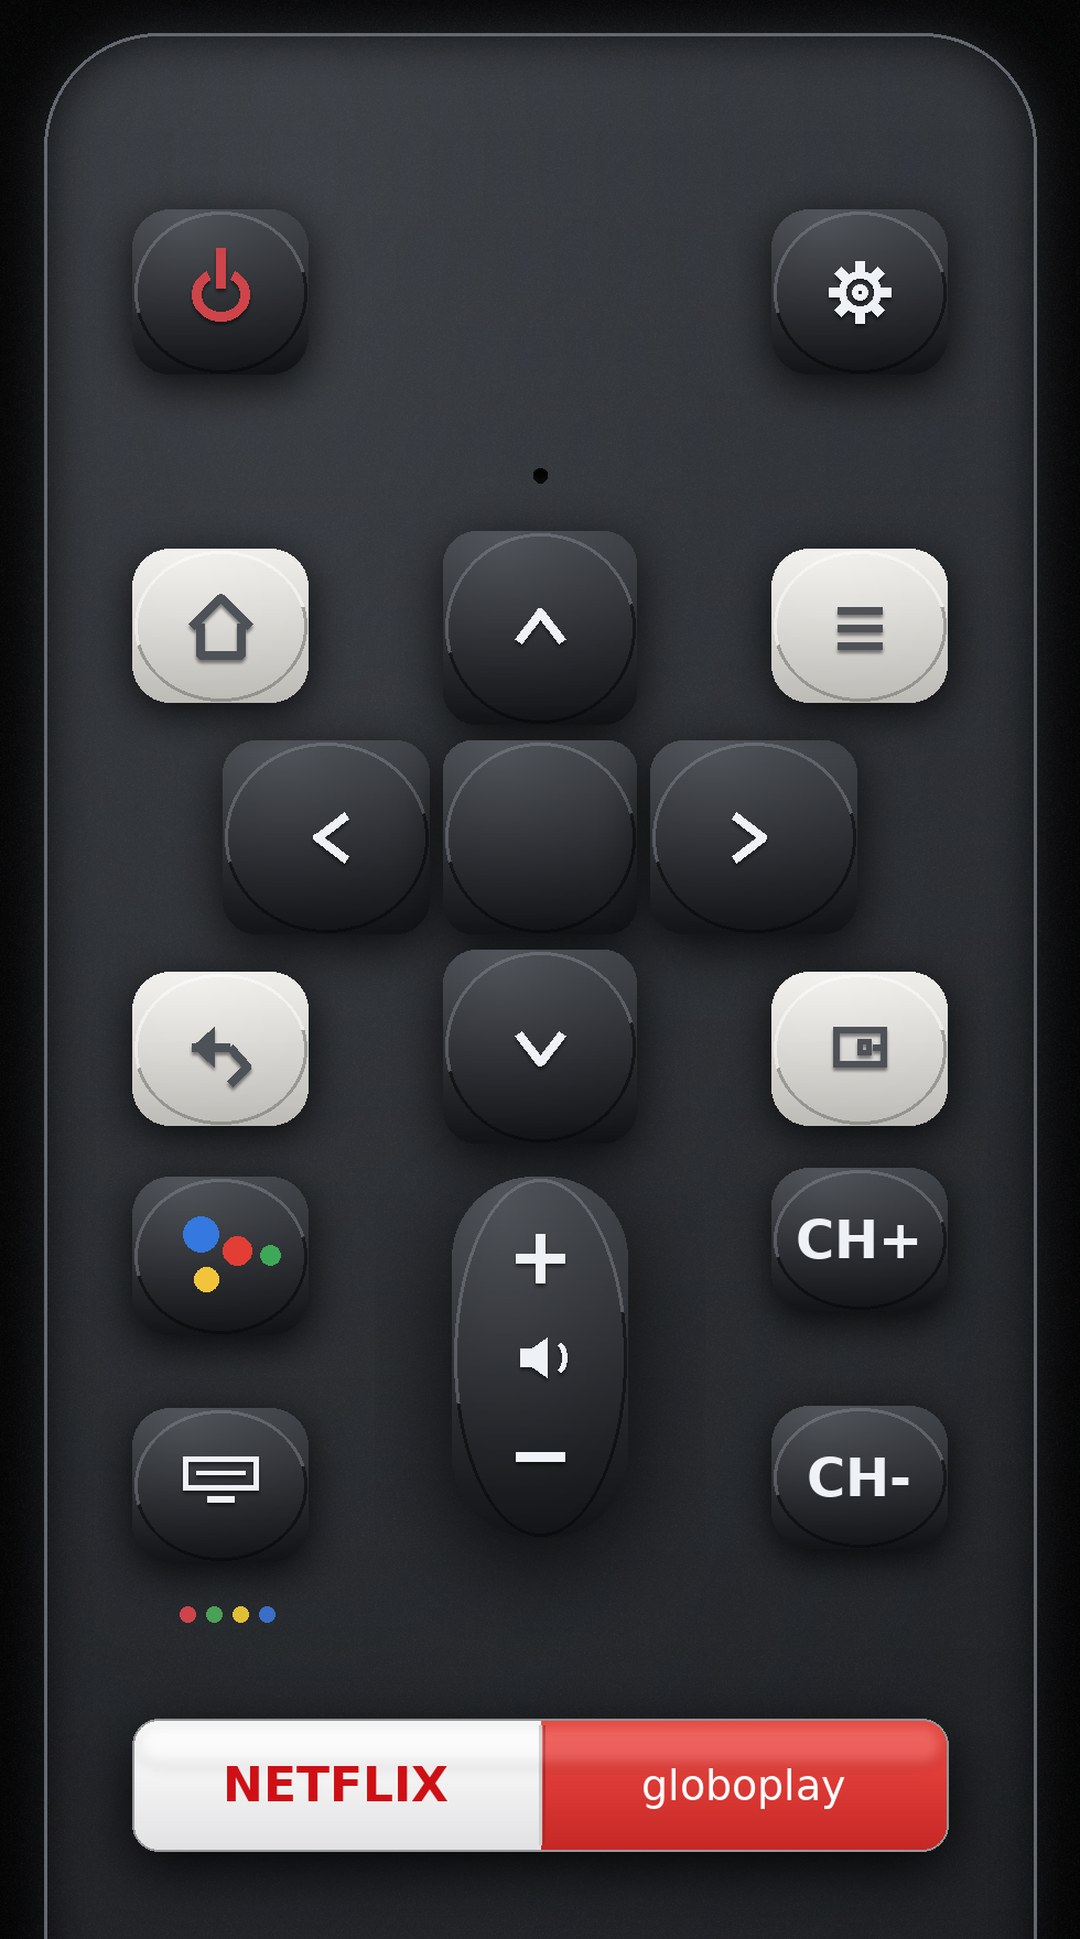
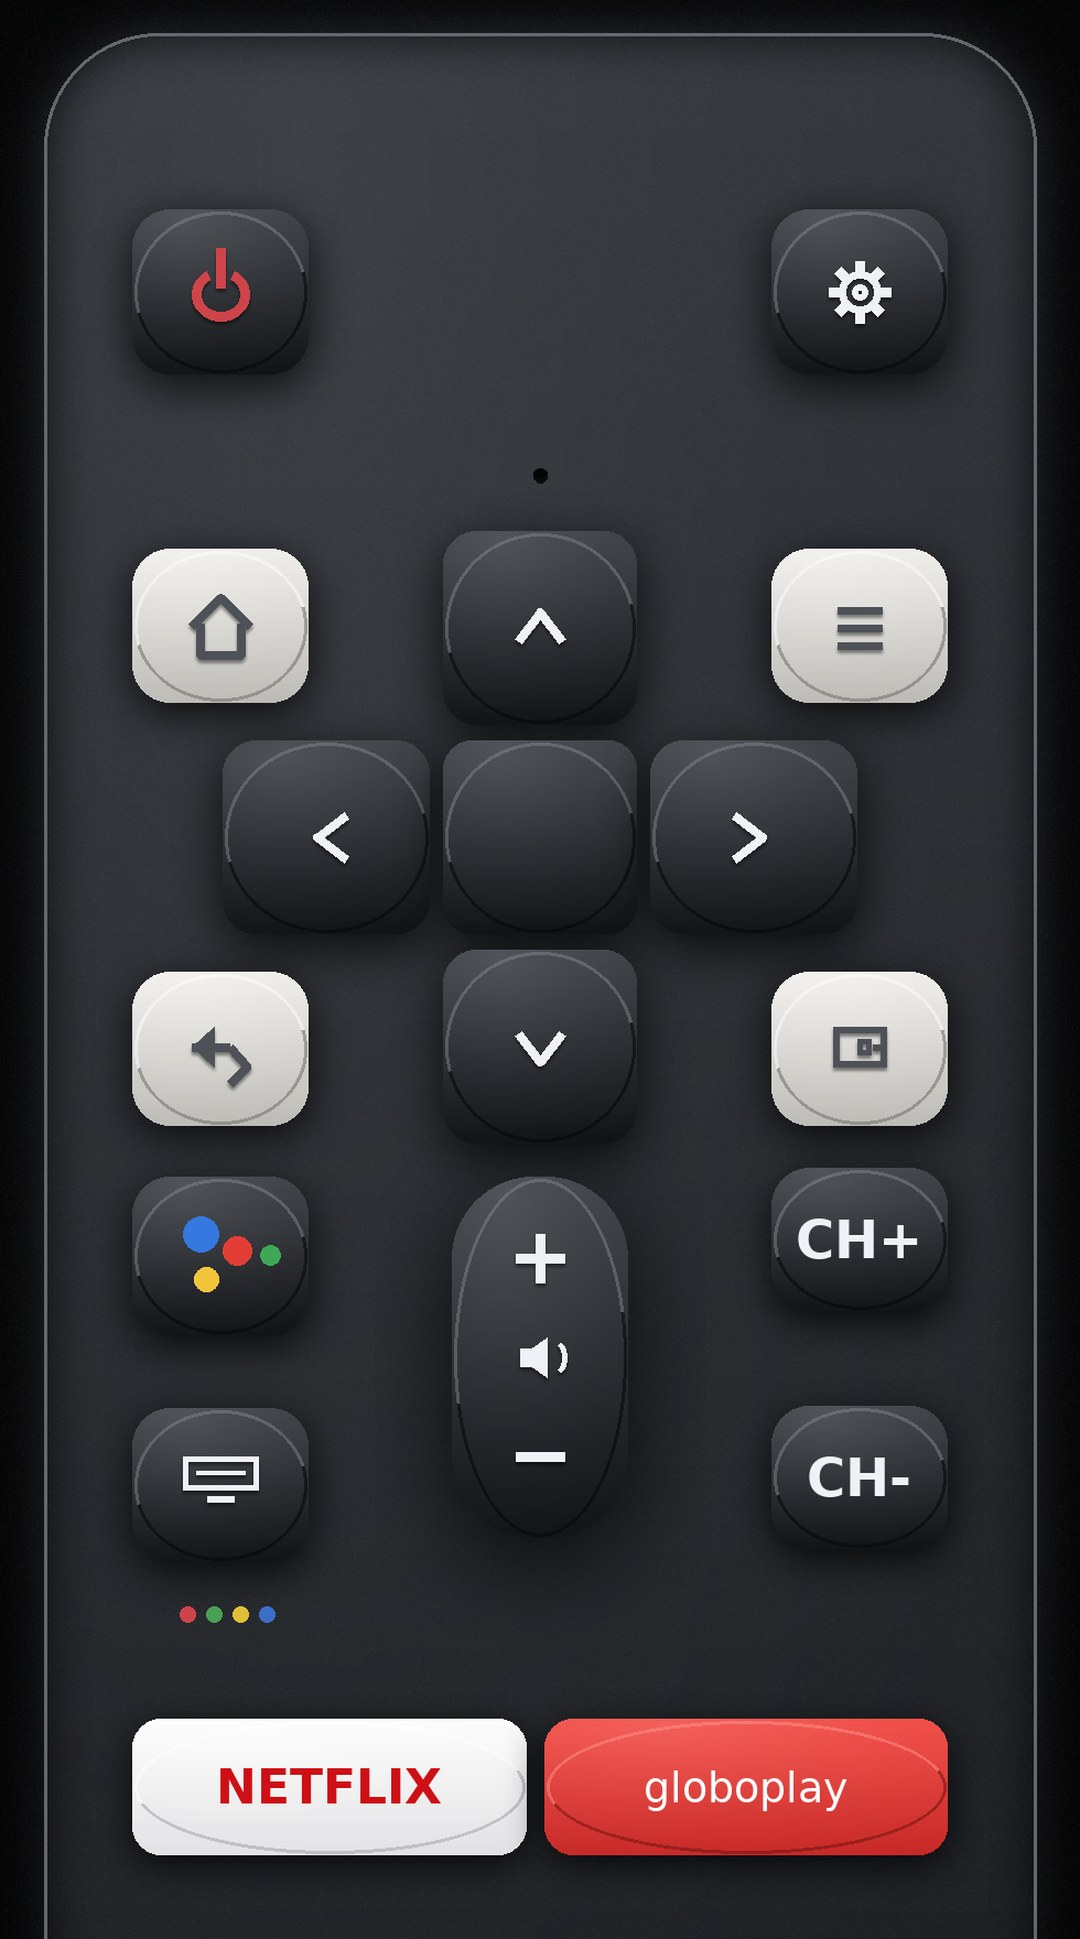
2.0.8: geometria da Samsung corrigida (home fora da roda, 123/EXTRA iguais), marcas do Android em relevo, repeticao agrupada no ADB e aviso de queda na abertura

Changed region(s): [[0.1222, 0.8664, 0.8861, 0.9593]]

diff --git a/ios/Sources/PhotoRemote.swift b/ios/Sources/PhotoRemote.swift
@@ -104,30 +104,30 @@ enum RemoteArt {
             CGRect(x: cx - r, y: cy - r, width: 2 * r, height: 2 * r)
         }
         var keys: [HotKey] = [
-            HotKey(id: "power", box: box(252, 430, 144), cmd: .power),
-            HotKey(id: "123", box: box(252, 856, 144)),
-            HotKey(id: "extra", box: box(1280 - 252, 856, 144)),
+            HotKey(id: "power", box: box(252, 420, 144), cmd: .power),
+            HotKey(id: "123", box: box(252, 860, 154)),
+            HotKey(id: "extra", box: box(1280 - 252, 860, 154)),
             // roda: 4 bordas + OK
-            HotKey(id: "up", box: box(640, 1470 - 262, 112), corner: 0.5, cmd: .up),
-            HotKey(id: "down", box: box(640, 1470 + 262, 112), corner: 0.5, cmd: .down),
-            HotKey(id: "left", box: box(640 - 262, 1470, 112), corner: 0.5, cmd: .left),
-            HotKey(id: "right", box: box(640 + 262, 1470, 112), corner: 0.5, cmd: .right),
-            HotKey(id: "ok", box: box(640, 1470, 186), corner: 0.5, cmd: .ok),
+            HotKey(id: "up", box: box(640, 1460 - 226, 112), corner: 0.5, cmd: .up),
+            HotKey(id: "down", box: box(640, 1460 + 226, 112), corner: 0.5, cmd: .down),
+            HotKey(id: "left", box: box(640 - 226, 1460, 112), corner: 0.5, cmd: .left),
+            HotKey(id: "right", box: box(640 + 226, 1460, 112), corner: 0.5, cmd: .right),
+            HotKey(id: "ok", box: box(640, 1460, 168), corner: 0.5, cmd: .ok),
             // três teclas redondas
-            HotKey(id: "voltar", box: box(252, 2000, 138), corner: 0.5, cmd: .back),
-            HotKey(id: "home", box: box(640, 2000, 148), corner: 0.5, cmd: .home),
-            HotKey(id: "play", box: box(1280 - 252, 2000, 138), corner: 0.5, cmd: .playPause),
+            HotKey(id: "voltar", box: box(252, 2012, 136), corner: 0.5, cmd: .back),
+            HotKey(id: "home", box: box(640, 2012, 144), corner: 0.5, cmd: .home),
+            HotKey(id: "play", box: box(1280 - 252, 2012, 136), corner: 0.5, cmd: .playPause),
             // balancins: metade de cima aumenta, de baixo diminui
-            HotKey(id: "vol+", box: CGRect(x: 252 - 93, y: 2182, width: 186, height: 145),
+            HotKey(id: "vol+", box: CGRect(x: 252 - 90, y: 2196, width: 180, height: 130),
                    corner: 0.45, cmd: .volUp),
-            HotKey(id: "vol-", box: CGRect(x: 252 - 93, y: 2327, width: 186, height: 145),
+            HotKey(id: "vol-", box: CGRect(x: 252 - 90, y: 2326, width: 180, height: 130),
                    corner: 0.45, cmd: .volDown),
-            HotKey(id: "ch+", box: CGRect(x: 1280 - 252 - 93, y: 2182, width: 186, height: 145),
+            HotKey(id: "ch+", box: CGRect(x: 1280 - 252 - 90, y: 2196, width: 180, height: 130),
                    corner: 0.45, cmd: .chUp),
-            HotKey(id: "ch-", box: CGRect(x: 1280 - 252 - 93, y: 2327, width: 186, height: 145),
+            HotKey(id: "ch-", box: CGRect(x: 1280 - 252 - 90, y: 2326, width: 180, height: 130),
                    corner: 0.45, cmd: .chDown),
             // mudo no vão entre os balancins
-            HotKey(id: "mudo", box: box(640, 2330, 104), corner: 0.5, cmd: .mute)
+            HotKey(id: "mudo", box: box(640, 2326, 92), corner: 0.5, cmd: .mute)
         ]
         keys.append(contentsOf: [])
         return keys
@@ -161,8 +161,8 @@ enum RemoteArt {
         HotKey(id: "ch+", box: CGRect(x: 850, y: 1100, width: 160, height: 130), cmd: .chUp),
         HotKey(id: "ch-", box: CGRect(x: 850, y: 1316, width: 160, height: 130), cmd: .chDown),
         HotKey(id: "teclado", box: CGRect(x: 270, y: 1318, width: 160, height: 140)),
-        HotKey(id: "netflix", box: CGRect(x: 270, y: 1600, width: 370, height: 120)),
-        HotKey(id: "globoplay", box: CGRect(x: 640, y: 1600, width: 370, height: 120))
+        HotKey(id: "netflix", box: CGRect(x: 270, y: 1600, width: 358, height: 124)),
+        HotKey(id: "globoplay", box: CGRect(x: 644, y: 1600, width: 366, height: 124))
     ]
 }
 

diff --git a/ios/Sources/DevicesView.swift b/ios/Sources/DevicesView.swift
@@ -9,10 +9,30 @@ struct DevicesView: View {
     @State private var found = 0
     @State private var message = ""
     @State private var showAdd = false
+    @State private var crashNote = ""
 
     var body: some View {
         NavigationStack {
             List {
+                if !crashNote.isEmpty {
+                    Section {
+                        VStack(alignment: .leading, spacing: 6) {
+                            Label("O app fechou na última vez", systemImage: "exclamationmark.triangle.fill")
+                                .font(.subheadline.bold())
+                                .foregroundStyle(.orange)
+                            Text(crashNote)
+                                .font(.caption)
+                                .foregroundStyle(.secondary)
+                                .textSelection(.enabled)
+                            Button("Dispensar") {
+                                CrashReporter.clear()
+                                crashNote = ""
+                            }
+                            .font(.caption)
+                        }
+                        .padding(.vertical, 4)
+                    }
+                }
                 Section {
                     if store.devices.isEmpty {
                         Text("Nenhuma TV salva ainda.").foregroundStyle(.secondary)
@@ -71,6 +91,10 @@ struct DevicesView: View {
                     }
                 }
             }
+            .task {
+                let crash = CrashReporter.read()
+                if !crash.isEmpty { crashNote = crash.trimmingCharacters(in: .whitespacesAndNewlines) }
+            }
             .navigationTitle("Controle TV")
             .navigationDestination(for: TVDevice.self) { device in
                 RemoteView(device: device)
@@ -97,6 +121,10 @@ struct DevicesView: View {
                 Section {
                     Text(manualProto.setup).font(.footnote).foregroundStyle(.secondary)
                 }
+            }
+            .task {
+                let crash = CrashReporter.read()
+                if !crash.isEmpty { crashNote = crash.trimmingCharacters(in: .whitespacesAndNewlines) }
             }
             .navigationTitle("Adicionar TV")
             .toolbar {

diff --git a/core/anytv_facade.c b/core/anytv_facade.c
@@ -266,7 +266,7 @@ static int adb_run(anytv_client *c, const char *cmd, int timeout_ms) {
     return code < 0 ? code : 0;
 }
 
-static int adb_cmd(anytv_client *c, anytv_cmd cmd) {
+static int adb_cmd(anytv_client *c, anytv_cmd cmd, int repeat) {
     static const int ADB_CODES[ANYTV_CMD_COUNT] = {
         19, 20, 21, 22, 23, 4, 3, 82,
         24, 25, 91, 85, 87, 88,
@@ -275,8 +275,15 @@ static int adb_cmd(anytv_client *c, anytv_cmd cmd) {
         7, 8, 9, 10, 11, 12, 13, 14, 15, 16, 219, 172
     };
     if ((int)cmd < 0 || cmd >= ANYTV_CMD_COUNT) return ADB_ERR_PROTOCOL;
-    char line[128];
-    anytv_keyevent_command(ADB_CODES[cmd], 1, line, sizeof(line));
+    /* Vários toques no mesmo comando vão numa chamada só: cada "input keyevent"
+     * custa a subida de um processo no aparelho, então agrupar economiza tempo. */
+    int times = repeat < 1 ? 1 : (repeat > 8 ? 8 : repeat);
+    char line[256];
+    snprintf(line, sizeof(line), "input keyevent %d", ADB_CODES[cmd]);
+    for (int i = 1; i < times; i++) {
+        size_t used = strlen(line);
+        snprintf(line + used, sizeof(line) - used, " %d", ADB_CODES[cmd]);
+    }
     return adb_run(c, line, 8000);
 }
 
@@ -315,7 +322,7 @@ int anytv_client_cmd(anytv_client *c, int cmd, int repeat) {
         if (rc != NET_OK) snprintf(c->error, sizeof(c->error), "Samsung recusou o comando");
         return rc == NET_OK ? 0 : ADB_ERR_IO;
     default:
-        return adb_cmd(c, (anytv_cmd)cmd);
+        return adb_cmd(c, (anytv_cmd)cmd, times);
     }
 }
 
